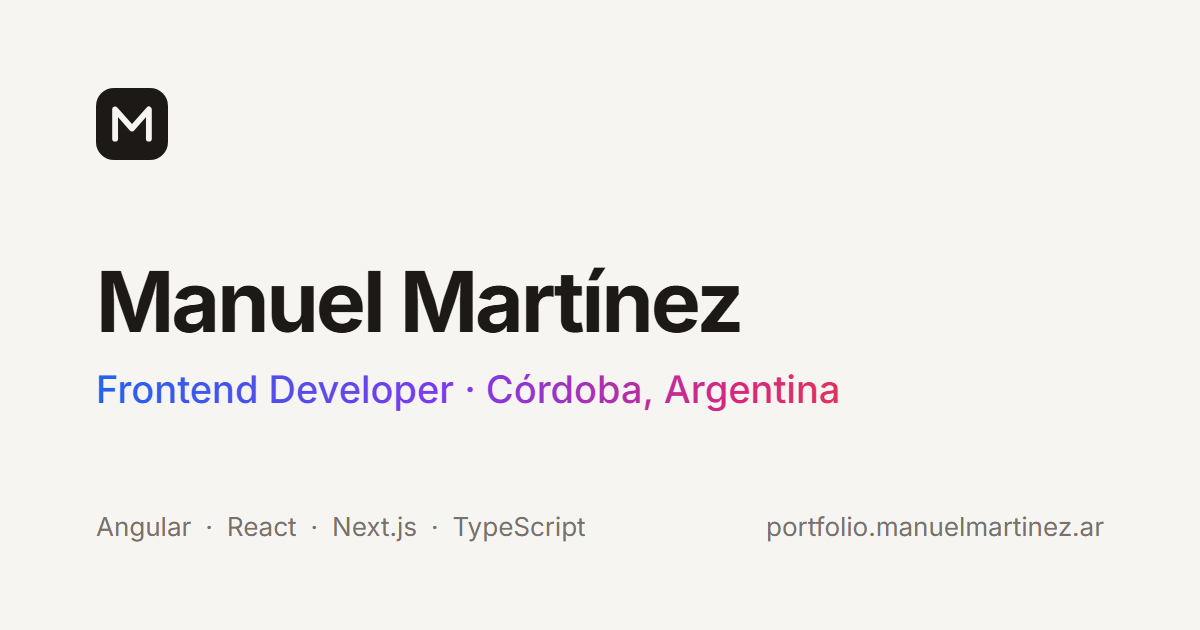
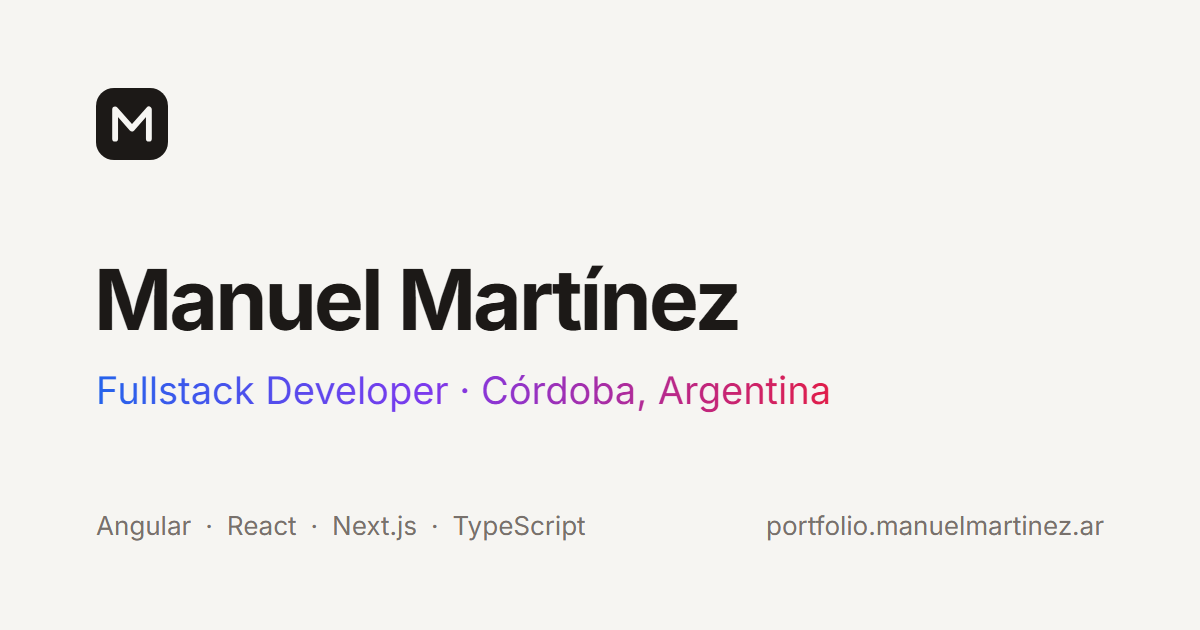
Cambiar rol a Fullstack Developer

diff --git a/index.html b/index.html
@@ -3,8 +3,8 @@
 <head>
   <meta charset="utf-8">
   <meta name="viewport" content="width=device-width, initial-scale=1">
-  <title>Manuel Martínez | Frontend Developer en Córdoba, Argentina</title>
-  <meta name="description" content="Manuel Martínez, Frontend Developer en Córdoba, Argentina. Más de 4 años construyendo con Angular, React y Next.js sistemas de gestión usados por más de 10.000 usuarios.">
+  <title>Manuel Martínez | Fullstack Developer en Córdoba, Argentina</title>
+  <meta name="description" content="Manuel Martínez, Fullstack Developer en Córdoba, Argentina. Más de 4 años construyendo con Angular, React y Next.js sistemas de gestión usados por más de 10.000 usuarios.">
   <meta name="author" content="Manuel A. Martínez">
   <meta name="robots" content="index, follow, max-image-preview:large">
   <link rel="canonical" href="https://portfolio.manuelmartinez.ar/">
@@ -16,12 +16,12 @@
   <meta property="og:locale" content="es_AR">
   <meta property="og:site_name" content="Manuel Martínez">
   <meta property="og:url" content="https://portfolio.manuelmartinez.ar/">
-  <meta property="og:title" content="Manuel Martínez | Frontend Developer">
-  <meta property="og:description" content="Frontend Developer en Córdoba, Argentina. Angular, React y Next.js para sistemas de gestión usados por más de 10.000 usuarios.">
+  <meta property="og:title" content="Manuel Martínez | Fullstack Developer">
+  <meta property="og:description" content="Fullstack Developer en Córdoba, Argentina. Angular, React y Next.js para sistemas de gestión usados por más de 10.000 usuarios.">
   <meta property="og:image" content="https://portfolio.manuelmartinez.ar/og.png">
   <meta property="og:image:width" content="1200">
   <meta property="og:image:height" content="630">
-  <meta property="og:image:alt" content="Manuel Martínez — Frontend Developer">
+  <meta property="og:image:alt" content="Manuel Martínez — Fullstack Developer">
   <meta property="profile:first_name" content="Manuel">
   <meta property="profile:last_name" content="Martínez">
   <meta name="twitter:card" content="summary_large_image">
@@ -46,8 +46,8 @@
         "alternateName": ["Manuel Martínez", "Manuel Martinez"],
         "givenName": "Manuel",
         "familyName": "Martínez",
-        "jobTitle": "Frontend Developer",
-        "description": "Desarrollador frontend con más de 4 años construyendo sistemas de gestión con Angular, React y Next.js.",
+        "jobTitle": "Fullstack Developer",
+        "description": "Desarrollador fullstack con más de 4 años construyendo sistemas de gestión con Angular, React y Next.js.",
         "url": "https://portfolio.manuelmartinez.ar/",
         "image": "https://portfolio.manuelmartinez.ar/og.png",
         "email": "mailto:manumartinzx@gmail.com",
@@ -66,7 +66,7 @@
           { "@type": "EducationalOrganization", "name": "IRESM", "url": "https://iresm.edu.ar" },
           { "@type": "EducationalOrganization", "name": "UTN FRBA", "url": "https://www.frba.utn.edu.ar" }
         ],
-        "knowsAbout": ["Angular", "React", "Next.js", "TypeScript", "RxJS", "NestJS", "Node.js", "Tailwind CSS", "Microservicios", "Arquitectura multitenant", "AWS", "Accesibilidad web", "Desarrollo frontend"],
+        "knowsAbout": ["Angular", "React", "Next.js", "TypeScript", "RxJS", "NestJS", "Node.js", "Tailwind CSS", "Microservicios", "Arquitectura multitenant", "AWS", "Accesibilidad web", "Desarrollo frontend", "Desarrollo fullstack"],
         "knowsLanguage": ["es", "en"],
         "sameAs": ["https://www.linkedin.com/in/manuelmartinezx"]
       },
@@ -82,7 +82,7 @@
         "@type": "ProfilePage",
         "@id": "https://portfolio.manuelmartinez.ar/#profile",
         "url": "https://portfolio.manuelmartinez.ar/",
-        "name": "Manuel Martínez | Frontend Developer en Córdoba, Argentina",
+        "name": "Manuel Martínez | Fullstack Developer en Córdoba, Argentina",
         "inLanguage": "es-AR",
         "isPartOf": { "@id": "https://portfolio.manuelmartinez.ar/#website" },
         "mainEntity": { "@id": "https://portfolio.manuelmartinez.ar/#person" }
@@ -96,7 +96,7 @@
 
     <header class="hero">
       <h1>Manuel A. Martínez</h1>
-      <p class="role"><span class="role-title">Frontend Developer</span> · Córdoba, Argentina</p>
+      <p class="role"><span class="role-title">Fullstack Developer</span> · Córdoba, Argentina</p>
       <ul class="links">
         <li><a class="co" href="https://linkedin.com/in/manuelmartinezx" target="_blank" rel="noopener">LinkedIn</a></li>
         <li class="email">
@@ -128,12 +128,12 @@
       <section id="sobre-mi" class="intro">
         <h2 class="sr-only">Sobre mí</h2>
         <p>
-          Soy desarrollador frontend con más de 4 años construyendo interfaces de sistemas de gestión
+          Soy desarrollador fullstack con más de 4 años construyendo sistemas de gestión
           usados a diario por más de <strong>10.000 usuarios</strong>. Trabajo con Angular,
           React y Next.js, con foco en UI responsive, rendimiento y accesibilidad.
         </p>
         <p>
-          Hoy desarrollo el frontend de plataformas de gestión y sitios institucionales en
+          Hoy desarrollo plataformas de gestión y sitios institucionales en
           <a class="mark" href="https://www.encodelabs.com.ar" target="_blank" rel="noopener">Encodelabs</a>. Antes estuve en la
           <a class="mark" href="https://www.ucc.edu.ar" target="_blank" rel="noopener">Universidad Católica de Córdoba</a>, donde
           migré y modernicé el sistema de autogestión que usan alumnos, docentes y áreas administrativas.
@@ -272,7 +272,7 @@
             <div class="exp-head">
               <span class="logo" style="--logo: #1f2937">E</span>
               <span class="exp-title">
-                <span class="exp-role">Frontend Developer</span>
+                <span class="exp-role">Fullstack Developer</span>
                 <a class="exp-company co" href="https://www.encodelabs.com.ar" target="_blank" rel="noopener">Encodelabs S.A.</a>
                 <span class="pill">2024 – Hoy</span>
               </span>
@@ -304,7 +304,7 @@
             <div class="exp-head">
               <span class="logo" style="--logo: #1e3a8a">UCC</span>
               <span class="exp-title">
-                <span class="exp-role">Frontend Developer</span>
+                <span class="exp-role">Fullstack Developer</span>
                 <a class="exp-company co" href="https://www.ucc.edu.ar" target="_blank" rel="noopener">Universidad Católica de Córdoba</a>
                 <span class="pill">2022 – 2024</span>
               </span>

diff --git a/main.js b/main.js
@@ -391,7 +391,7 @@ document.querySelectorAll('.copy').forEach((btn) => {
   });
 });
 
-/* "Frontend Developer": split into letters for the rainbow wave */
+/* "Fullstack Developer": split into letters for the rainbow wave */
 document.querySelectorAll('.role-title').forEach((title) => {
   // Plain inline spans: the text reads once, as written, for crawlers and screen readers
   title.replaceChildren(...[...title.textContent].map((char, i) => {

diff --git a/styles.css b/styles.css
@@ -87,7 +87,7 @@ h1 {
   color: var(--muted);
 }
 
-/* "Frontend Developer": letters turn rainbow and hop in a wave on hover */
+/* "Fullstack Developer": letters turn rainbow and hop in a wave on hover */
 .role-title {
   display: inline-block;
   cursor: default;

diff --git a/README.md b/README.md
@@ -1,6 +1,6 @@
 # portfolio_mm
 
-CV / portfolio personal de Manuel A. Martínez — Frontend Developer.
+CV / portfolio personal de Manuel A. Martínez — Fullstack Developer.
 
 Sitio estático (HTML + CSS, sin build). Para verlo, abrir `index.html` en el navegador.
 
